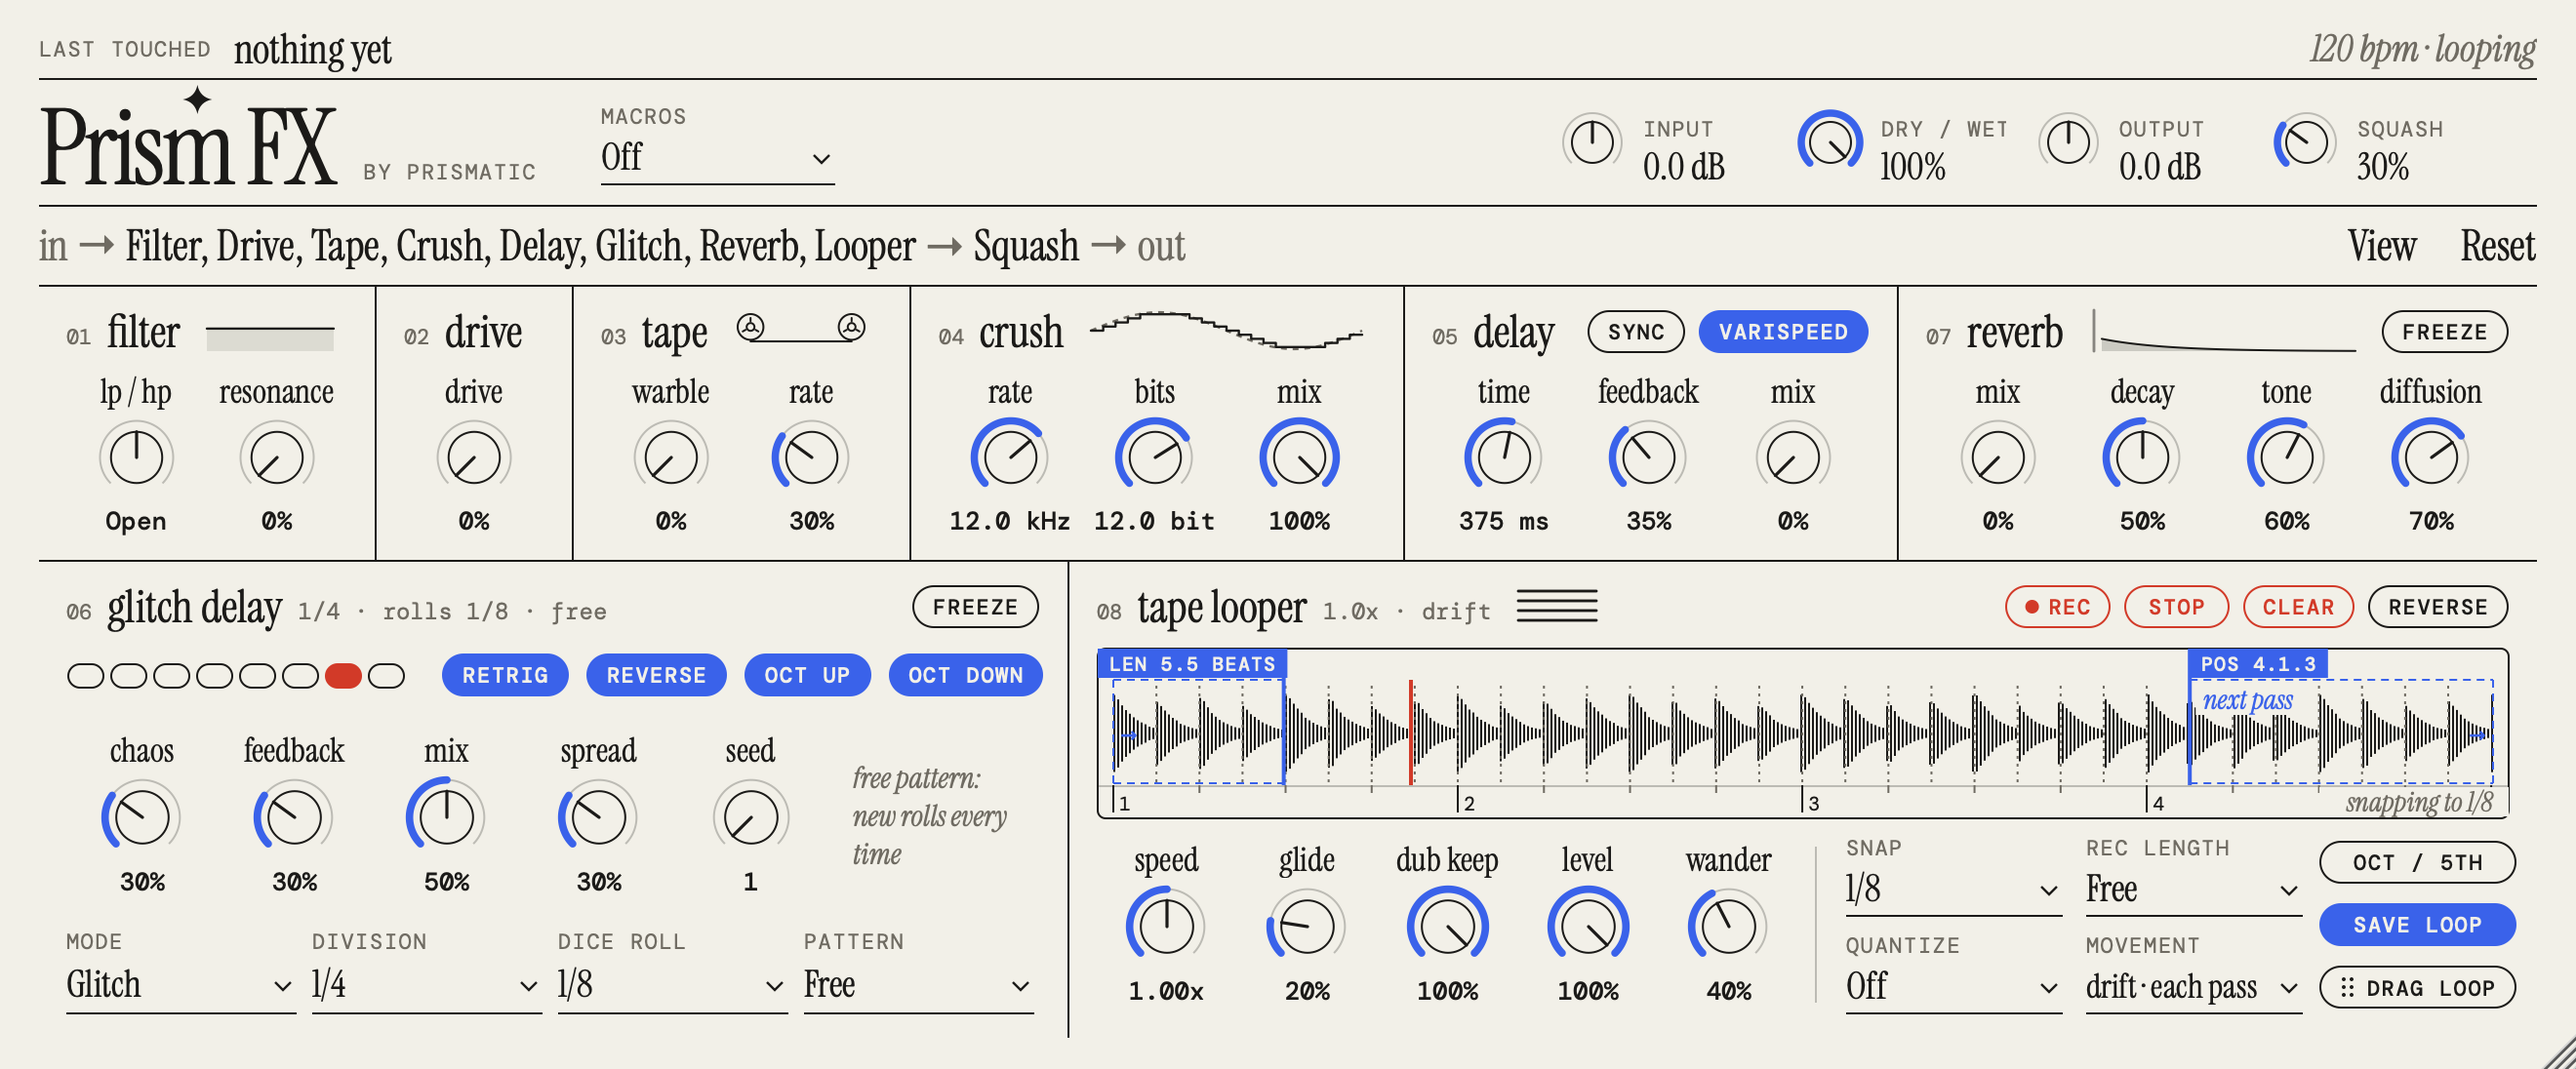
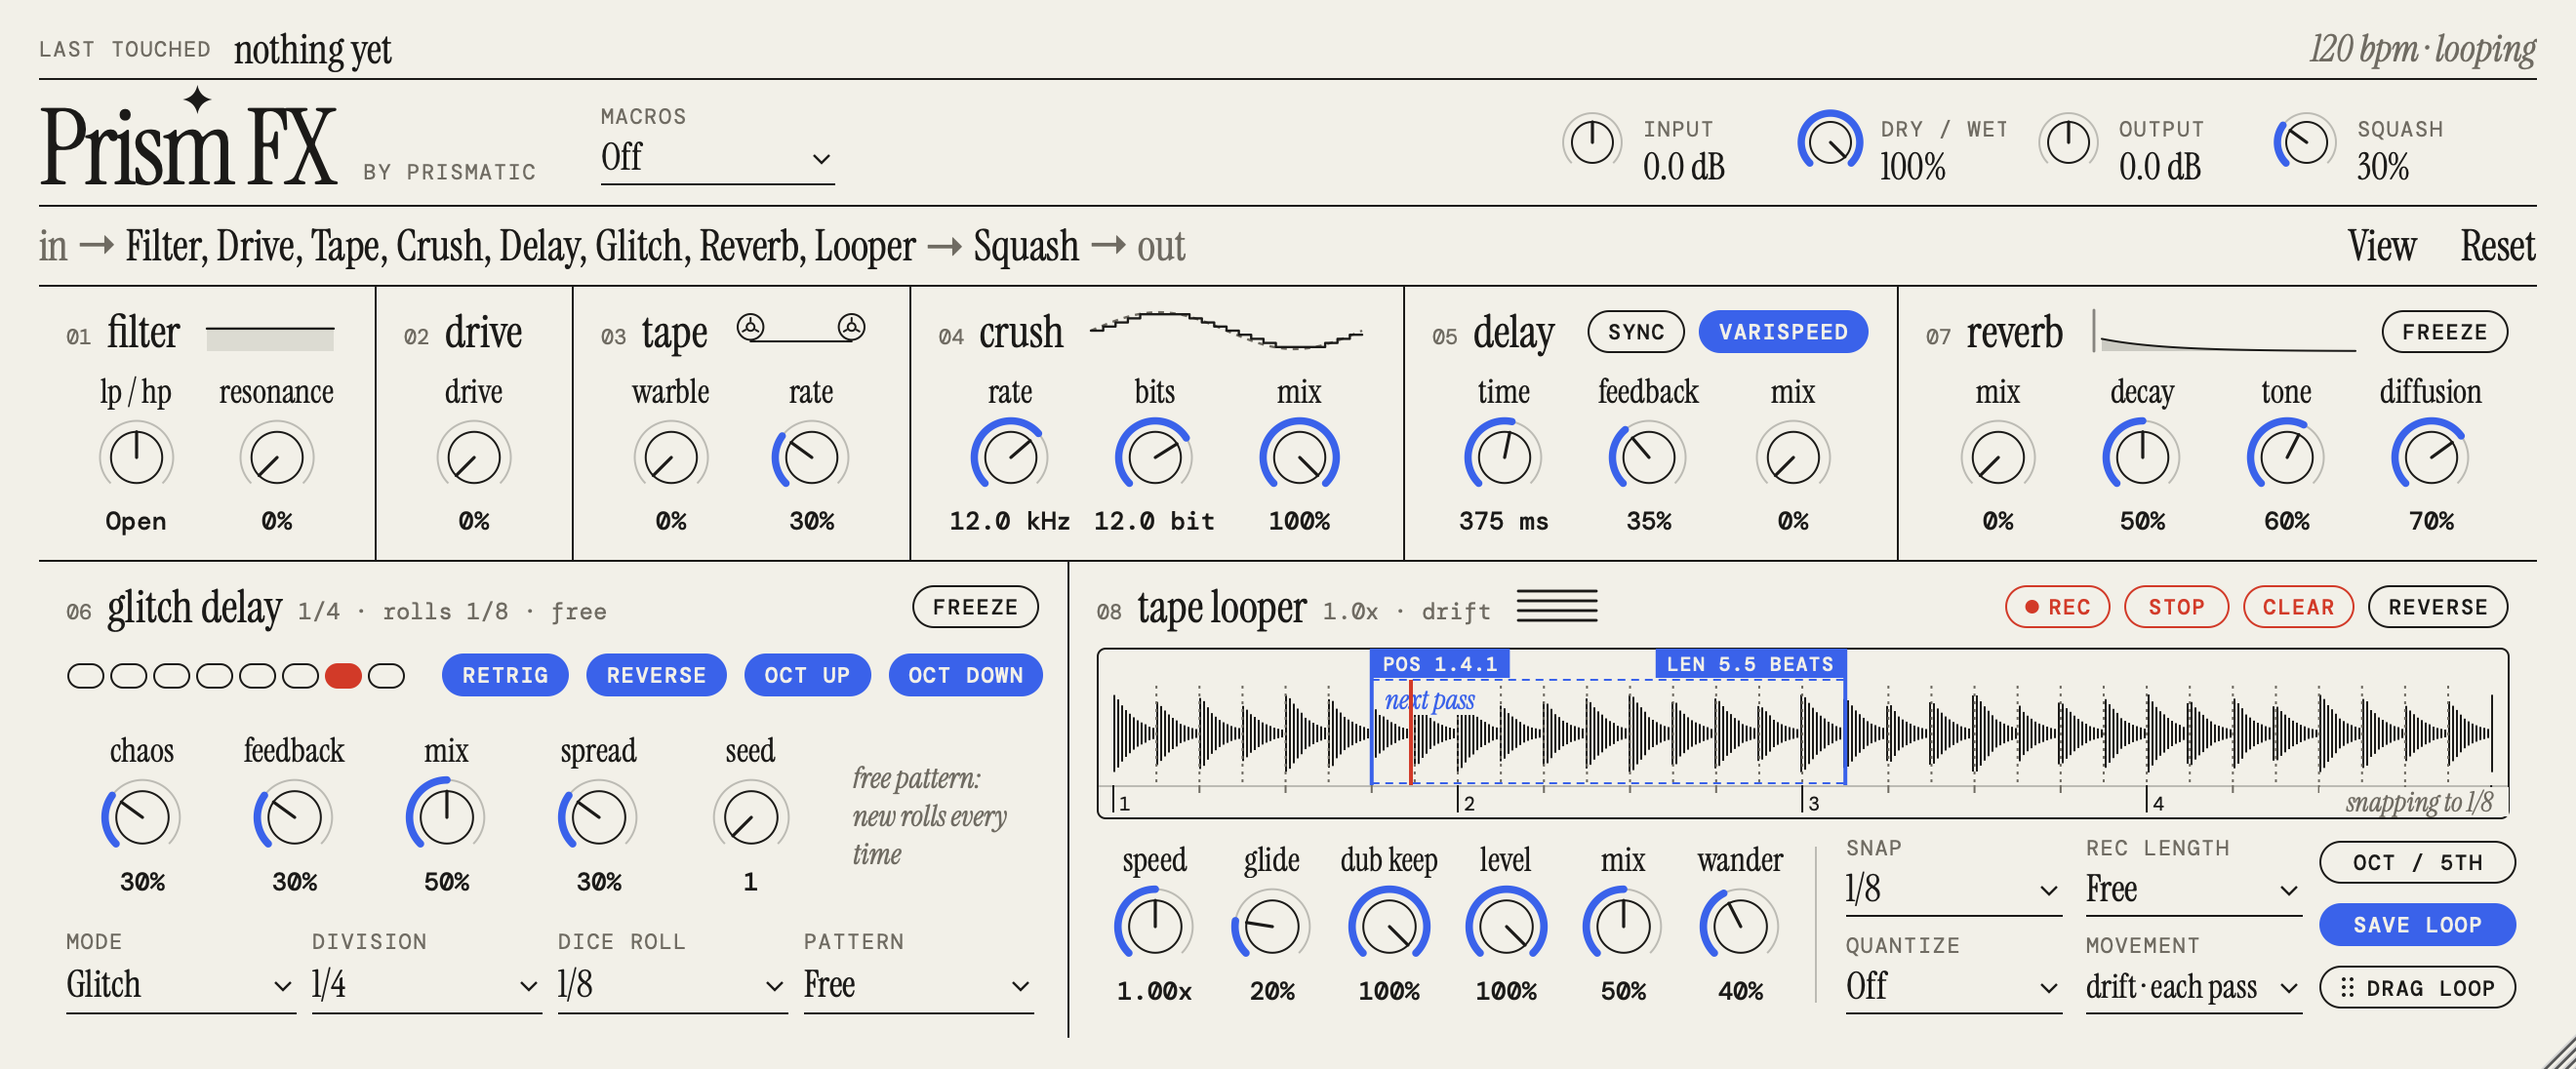
Looper: Mix knob; REC closes a recording into playback, not overdub (0.1.1)
Mix blends the input against the loop: noon = both at full (as before),
left = input only, right = loop only. The input only fades while there's
a loop to hear, and both gains glide (~20 ms). Looper knobs sit in 60 px
cells so the card still fits beside the glitch delay.

Closing the first take with REC (or by filling the tape) now plays the
loop back without overdubbing; a second REC starts the overdub.

StateTest checks both, and fails if REC goes back to overdubbing or Mix
is made to jump.

diff --git a/Tools/StateTest.cpp b/Tools/StateTest.cpp
@@ -45,8 +45,82 @@ int main()
     b.prepareToPlay(sr, block);
     b.prepareToPlay(sr, block * 2); // hosts re-prepare; the loop must survive
 
-    const bool ok = b.Looper().GetLength() == len && len > 0 && b.GetOrder() == order;
+    bool ok = b.Looper().GetLength() == len && len > 0 && b.GetOrder() == order;
     std::printf("loop %zu -> %zu samples, state %.1f KB, routing %s: %s\n", len, b.Looper().GetLength(),
                 state.getSize() / 1024.0, b.GetOrder() == order ? "kept" : "lost", ok ? "PASS" : "FAIL");
+
+    // REC, then REC again, closes the loop into plain playback (no overdub);
+    // a third REC starts the overdub.
+    {
+        PrismProcessor c;
+        c.setPlayConfigDetails(2, 2, sr, block);
+        c.prepareToPlay(sr, block);
+        fill(); Press(c, prism::ids::loopRec, buf, midi);
+        for(int i = 0; i < int(sr / block); ++i) { fill(); c.processBlock(buf, midi); }
+        fill(); Press(c, prism::ids::loopRec, buf, midi);
+        const bool playing = c.Looper().GetState() == prism::TapeLooper::State::Playing && !c.Looper().IsDubbing();
+        fill(); c.processBlock(buf, midi); // let go of the button between presses
+        fill(); Press(c, prism::ids::loopRec, buf, midi);
+        const bool dubbing = c.Looper().IsDubbing();
+        const bool pass = playing && dubbing;
+        std::printf("REC closes the loop into playback, next REC overdubs: %s\n", pass ? "PASS" : "FAIL");
+        ok = ok && pass;
+    }
+
+    // Mix, straight on the looper: noon = input + loop, 0 = input only, 1 = loop only.
+    // The loop holds a 330 Hz tone; the input is a 550 Hz tone.
+    {
+        prism::RateScale rate;
+        rate.Init(48000.f);
+        prism::TapeLooper lp;
+        lp.Init(rate);
+        auto tone = [](double hz, long n) { return .3f * (float)std::sin(2.0 * juce::MathConstants<double>::pi * hz * n / 48000.0); };
+        long n = 0;
+        lp.PressRecord();
+        for(; n < 48000; ++n) { float l = tone(330, n), r = l; lp.Process(&l, &r); }
+        lp.PressRecord();
+        // energy at a frequency over the last half second of a 1 s run
+        auto run = [&](float mix) {
+            lp.SetMix(mix);
+            double re3 = 0, im3 = 0, re5 = 0, im5 = 0;
+            for(long k = 0; k < 48000; ++k, ++n)
+            {
+                float l = tone(550, n), r = l;
+                lp.Process(&l, &r);
+                if(k >= 24000)
+                {
+                    const double w3 = 2.0 * juce::MathConstants<double>::pi * 330.0 * n / 48000.0, w5 = w3 * 550.0 / 330.0;
+                    re3 += l * std::cos(w3); im3 += l * std::sin(w3); re5 += l * std::cos(w5); im5 += l * std::sin(w5);
+                }
+            }
+            const double loop = std::sqrt(re3 * re3 + im3 * im3) / 12000.0, input = std::sqrt(re5 * re5 + im5 * im5) / 12000.0;
+            return std::pair{loop, input};
+        };
+        const auto mid = run(.5f), dry = run(0.f), loopOnly = run(1.f);
+        // The knob from full loop to full input in one go, with the input silent so
+        // only the loop moves. Four tries a quarter cycle apart, so one jump lands
+        // where the loop is loud. The loop's own wave moves at most .013 a sample.
+        float jump = 0.f;
+        for(long offset : {0L, 37L, 74L, 111L})
+        {
+            float prev = 0.f;
+            lp.SetMix(1.f);
+            for(long k = 0; k < 9600 + offset; ++k, ++n) { float l = 0.f, r = 0.f; lp.Process(&l, &r); prev = l; }
+            lp.SetMix(0.f);
+            for(long k = 0; k < 4800; ++k, ++n)
+            {
+                float l = 0.f, r = 0.f;
+                lp.Process(&l, &r);
+                jump = std::max(jump, std::fabs(l - prev));
+                prev = l;
+            }
+        }
+        std::printf("mix: noon loop %.3f input %.3f; 0 loop %.3f input %.3f; 1 loop %.3f input %.3f; biggest step on a jump %.3f\n",
+                    mid.first, mid.second, dry.first, dry.second, loopOnly.first, loopOnly.second, jump);
+        const bool pass = mid.first > .25 && mid.second > .25 && dry.first < .01 && dry.second > .25
+                       && loopOnly.first > .25 && loopOnly.second < .01 && jump < .03f;
+        std::printf("Loop Mix blends input and loop, and glides: %s\n", pass ? "PASS" : "FAIL");
+        ok = ok && pass;
+    }
     return ok ? 0 : 1;
 }

diff --git a/Source/dsp/TapeLooper.h b/Source/dsp/TapeLooper.h
@@ -18,8 +18,13 @@
 //   (drift, random or scan), seeded so the same seed takes the same path.
 //
 // Buttons follow the hardware:
-//   REC   empty -> record; recording -> close the loop and keep overdubbing;
-//         playing -> overdub on/off
+//   REC   empty -> record; recording -> close the loop and play (the
+//         hardware goes straight into overdub; here a second REC press
+//         starts it); playing -> overdub on/off
+//
+// Mix blends what passes through against the loop: at noon both are at full
+// level, left fades the loop out, right fades the input out so only the loop
+// plays. The input only fades once there's a loop to hear instead.
 //   PLAY  recording -> close the loop and play; playing -> stop; stopped -> play
 //   CLEAR erase the loop
 
@@ -78,8 +83,8 @@ class TapeLooper
                 break;
             case State::Recording:
                 CloseLoop();
-                state_  = State::Playing;
-                dubbing_ = true;
+                state_   = State::Playing;
+                dubbing_ = false;
                 break;
             case State::Playing: dubbing_ = !dubbing_; break;
             case State::Stopped:
@@ -122,6 +127,8 @@ class TapeLooper
     void SetGlide(float g) { glide_coef_ = rate_.Coef(.01f * std::pow(.005f, fclamp(g, 0.f, 1.f))); }
     void SetDub(float d) { dub_target_ = fclamp(d, 0.f, 1.f); }
     void SetLevel(float l) { level_target_ = l; }
+    /** 0 = input only, .5 = both at full, 1 = loop only */
+    void SetMix(float m) { mix_target_ = fclamp(m, 0.f, 1.f); }
     /** The part of the tape to loop, in samples: where it starts and how long it is. It may wrap. */
     void SetWindow(size_t start, size_t length)
     {
@@ -199,6 +206,15 @@ class TapeLooper
         const float in_l = *l, in_r = *r;
         fonepole(dub_, dub_target_, dub_coef_);
         fonepole(level_, level_target_, level_coef_);
+        fonepole(mix_, mix_target_, level_coef_);
+        // Mix: the input fades only while there's a loop to hear instead, and
+        // comes back up as CLEAR fades the loop out. Both gains glide (~20 ms).
+        const bool  has_loop = len_ > 0 && (state_ == State::Playing || state_ == State::Stopped);
+        const float dry_full = std::fmin(1.f, 2.f * (1.f - mix_));
+        fonepole(dry_, has_loop ? 1.f - (1.f - dry_full) * clear_env_ : 1.f, level_coef_);
+        const float wet = std::fmin(1.f, 2.f * mix_);
+        *l = in_l * dry_;
+        *r = in_r * dry_;
 
         if(state_ == State::Recording)
         {
@@ -208,7 +224,7 @@ class TapeLooper
             {
                 CloseLoop();
                 state_   = State::Playing;
-                dubbing_ = true;
+                dubbing_ = false;
             }
             prev_in_l_ = in_l;
             prev_in_r_ = in_r;
@@ -302,8 +318,8 @@ class TapeLooper
         prev_in_l_ = in_l;
         prev_in_r_ = in_r;
 
-        *l = in_l + out_l;
-        *r = in_r + out_r;
+        *l = in_l * dry_ + out_l * wet;
+        *r = in_r * dry_ + out_r * wet;
     }
 
   public:
@@ -548,6 +564,7 @@ class TapeLooper
     bool  reverse_ = false;
     float dub_ = 1.f, dub_target_ = 1.f, dub_coef_ = .0001f;
     float level_ = 1.f, level_target_ = 1.f, level_coef_ = .001f;
+    float mix_ = .5f, mix_target_ = .5f, dry_ = 1.f;
     float input_env_ = 0.f, input_step_ = .001f;
     float prev_in_l_ = 0.f, prev_in_r_ = 0.f;
     float seam_fade_ = 96.f;

diff --git a/Source/PluginEditor.cpp b/Source/PluginEditor.cpp
@@ -770,10 +770,10 @@ void Module::PollSketch()
 
 void Module::NewLine(int height) { lineH_.push_back(height); }
 
-void Module::AddKnob(juce::Component& c)
+void Module::AddKnob(juce::Component& c, int width)
 {
     addAndMakeVisible(c);
-    items_.push_back({Item::Knob, &c, kCell, (int)lineH_.size() - 1});
+    items_.push_back({Item::Knob, &c, width > 0 ? width : kCell, (int)lineH_.size() - 1});
 }
 
 void Module::AddFixed(juce::Component& c, int width)
@@ -1874,11 +1874,14 @@ PrismEditor::PrismEditor(PrismProcessor& p) : AudioProcessorEditor(&p), proc_(p)
     looper_->NewLine(92);
     // position and length are set on the waveform; they are still parameters for automation
     swaps_.push_back(&keep(std::make_unique<SwapKnob>(s, ids::loopSpeedSteps, ids::loopSpeed, ids::loopSpeedStep, "Speed")));
-    looper_->AddKnob(*swaps_.back());
-    looper_->AddKnob(knob(ids::loopGlide, "Glide"));
-    looper_->AddKnob(knob(ids::loopDub, "Dub keep"));
-    looper_->AddKnob(knob(ids::loopLevel, "Level"));
-    looper_->AddKnob(knob(ids::loopWander, "Wander"));
+    // six knobs in a slightly tighter row (60 px each), so the looper still fits beside the glitch delay
+    constexpr int kLoopCell = 60;
+    looper_->AddKnob(*swaps_.back(), kLoopCell);
+    looper_->AddKnob(knob(ids::loopGlide, "Glide"), kLoopCell);
+    looper_->AddKnob(knob(ids::loopDub, "Dub keep"), kLoopCell);
+    looper_->AddKnob(knob(ids::loopLevel, "Level"), kLoopCell);
+    looper_->AddKnob(knob(ids::loopMix, "Mix"), kLoopCell);
+    looper_->AddKnob(knob(ids::loopWander, "Wander"), kLoopCell);
     {
         std::vector<juce::Component*> combos;
         for(auto [id, label] : {std::pair{ids::loopSnap, "Snap"}, std::pair{ids::loopLength, "Rec length"},

diff --git a/Source/dsp/FxChain.h b/Source/dsp/FxChain.h
@@ -59,7 +59,7 @@ struct FxParams
     bool  squash_on = false;
     float squash = 0.f;
 
-    float looper_speed = 1.f, looper_glide = .2f, looper_dub = 1.f, looper_level = 1.f, looper_scrub = 0.f;
+    float looper_speed = 1.f, looper_glide = .2f, looper_dub = 1.f, looper_level = 1.f, looper_mix = .5f, looper_scrub = 0.f;
     bool  looper_reverse = false;
 };
 
@@ -201,6 +201,7 @@ class FxChain
         looper_.SetGlide(p.looper_glide);
         looper_.SetDub(p.looper_dub);
         looper_.SetLevel(p.looper_level);
+        looper_.SetMix(p.looper_mix);
         looper_.SetScrub(p.looper_scrub);
     }
 

diff --git a/Source/Parameters.cpp b/Source/Parameters.cpp
@@ -162,6 +162,7 @@ juce::AudioProcessorValueTreeState::ParameterLayout CreateParameterLayout()
     layout.add(Knob(ids::loopGlide, "Loop Glide", .2f));
     layout.add(Knob(ids::loopDub, "Loop Dub Keep", 1.f));
     layout.add(Knob(ids::loopLevel, "Loop Level", 1.f));
+    layout.add(Knob(ids::loopMix, "Loop Mix", .5f));
     layout.add(Knob(ids::loopScrub, "Loop Scrub", 0.f));
     layout.add(std::make_unique<APC>(Id(ids::loopQuantize), "Loop Quantize", juce::StringArray{"Off", "Beat", "Bar"}, 0));
     layout.add(std::make_unique<APC>(Id(ids::loopLength), "Loop Length",

diff --git a/Source/Parameters.h b/Source/Parameters.h
@@ -68,6 +68,7 @@ inline constexpr const char* loopReverse    = "loop_reverse";
 inline constexpr const char* loopGlide      = "loop_glide";
 inline constexpr const char* loopDub        = "loop_dub";
 inline constexpr const char* loopLevel      = "loop_level";
+inline constexpr const char* loopMix        = "loop_mix";
 inline constexpr const char* loopScrub      = "loop_scrub";
 inline constexpr const char* loopQuantize   = "loop_quantize";
 inline constexpr const char* loopLength     = "loop_length";

diff --git a/Source/PluginEditor.h b/Source/PluginEditor.h
@@ -150,7 +150,8 @@ class Module : public juce::Component
 
     /** Start a line of controls. height 0 = share what's left. */
     void NewLine(int height);
-    void AddKnob(juce::Component&);
+    /** width: the knob's cell (0 = the usual 72 px) */
+    void AddKnob(juce::Component&, int width = 0);
     void AddFixed(juce::Component&, int width);
     void AddFlexible(juce::Component&, int minWidth);
 

diff --git a/Source/PluginProcessor.cpp b/Source/PluginProcessor.cpp
@@ -123,6 +123,7 @@ FxParams PrismProcessor::ReadParams(float bpm) const
     p.looper_glide   = Raw(ids::loopGlide);
     p.looper_dub     = Raw(ids::loopDub);
     p.looper_level   = Raw(ids::loopLevel);
+    p.looper_mix     = Raw(ids::loopMix);
     p.looper_scrub   = Raw(ids::loopScrub);
     return p;
 }

diff --git a/README.md b/README.md
@@ -139,6 +139,15 @@ The loop behaves like a tape loop:
 - **Overdubs** are written at the tape's current speed, so a part overdubbed at
   half speed plays back an octave up at normal speed.
 - **Dub Keep** sets how much of the existing loop survives each overdub pass.
+- **Level** sets how loud the loop plays. **Mix** blends the loop against
+  what's coming in, like the blend knob on a looper pedal. At noon (the
+  default) both play at full, the same as before Mix existed. Turn it left and
+  the loop fades out until only the input is left. Turn it right and the input
+  fades out until only the loop plays, so you can hear a loop on its own while
+  the track it came from keeps running. The input only fades while there's a
+  loop to hear instead: on an empty looper, and while recording the first take,
+  you always hear what's coming in. After CLEAR it comes back up as the loop
+  fades out. Mix glides over about 20 ms, so turning it never clicks.
 - **Scrub**: while stopped, click or drag the waveform to move the tape.
 - **Position / Length** set which part of the tape loops. Playback and
   overdubs stay inside that window, and the audio outside it is kept.
@@ -174,10 +183,15 @@ The loop behaves like a tape loop:
 
 | Button | Does |
 |---|---|
-| REC | Empty: start recording. Recording: close the loop and keep overdubbing. Playing: overdub on/off. |
+| REC | Empty: start recording. Recording: close the loop and play it back. Playing: overdub on/off. Stopped: play and overdub. |
 | PLAY | Recording: close the loop and play. Playing: stop. Stopped: play. |
 | CLEAR | Erase the loop. |
 
+- Closing a recording with REC plays the loop back without overdubbing, so
+  nothing new lands on it by accident. Press REC again to start an overdub.
+  (The CHOMPI hardware goes straight into overdub here; Prism FX changed this
+  in 0.1.1.) PLAY closes it the same way, and so does Length when it stops the
+  first take.
 - **Quantize** (Beat / Bar) holds a button press until the next beat or bar.
   The REC button blinks while a press is waiting.
 - **Length** (1 to 8 bars) stops the first recording automatically at exactly
